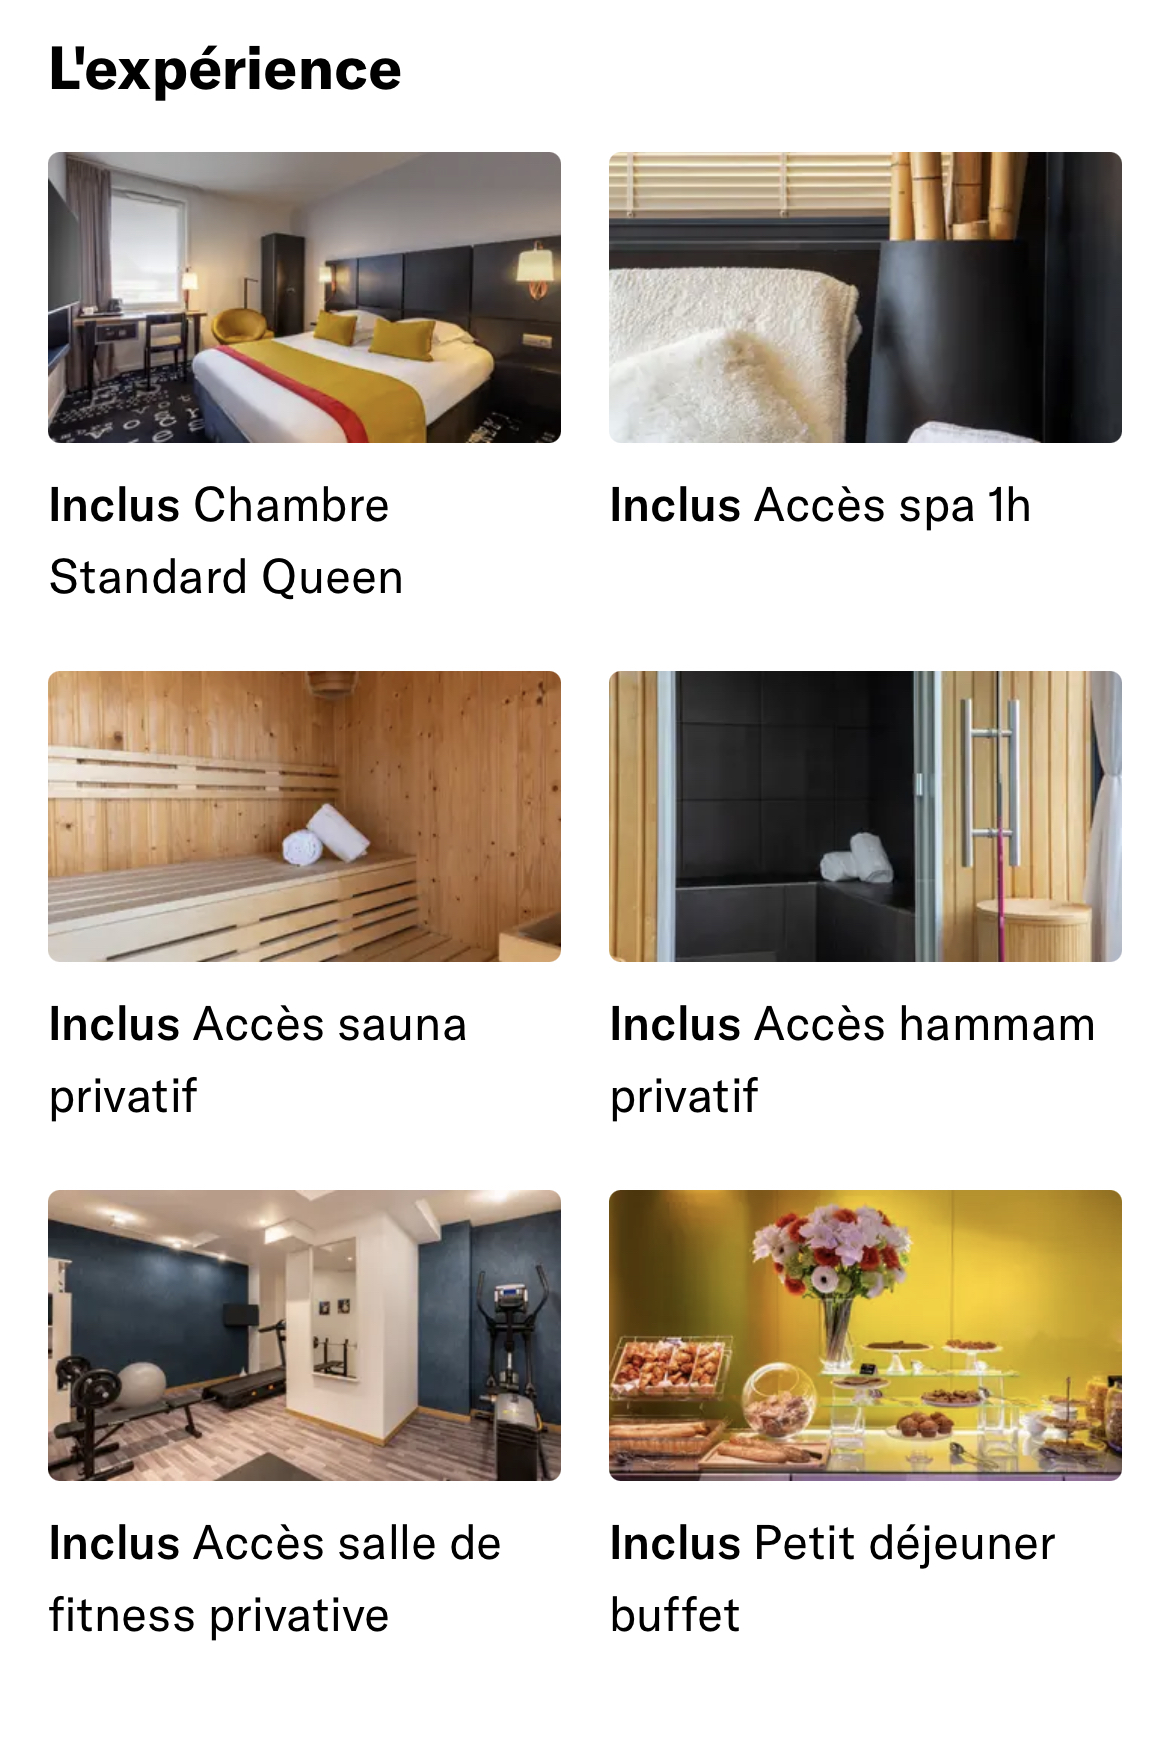
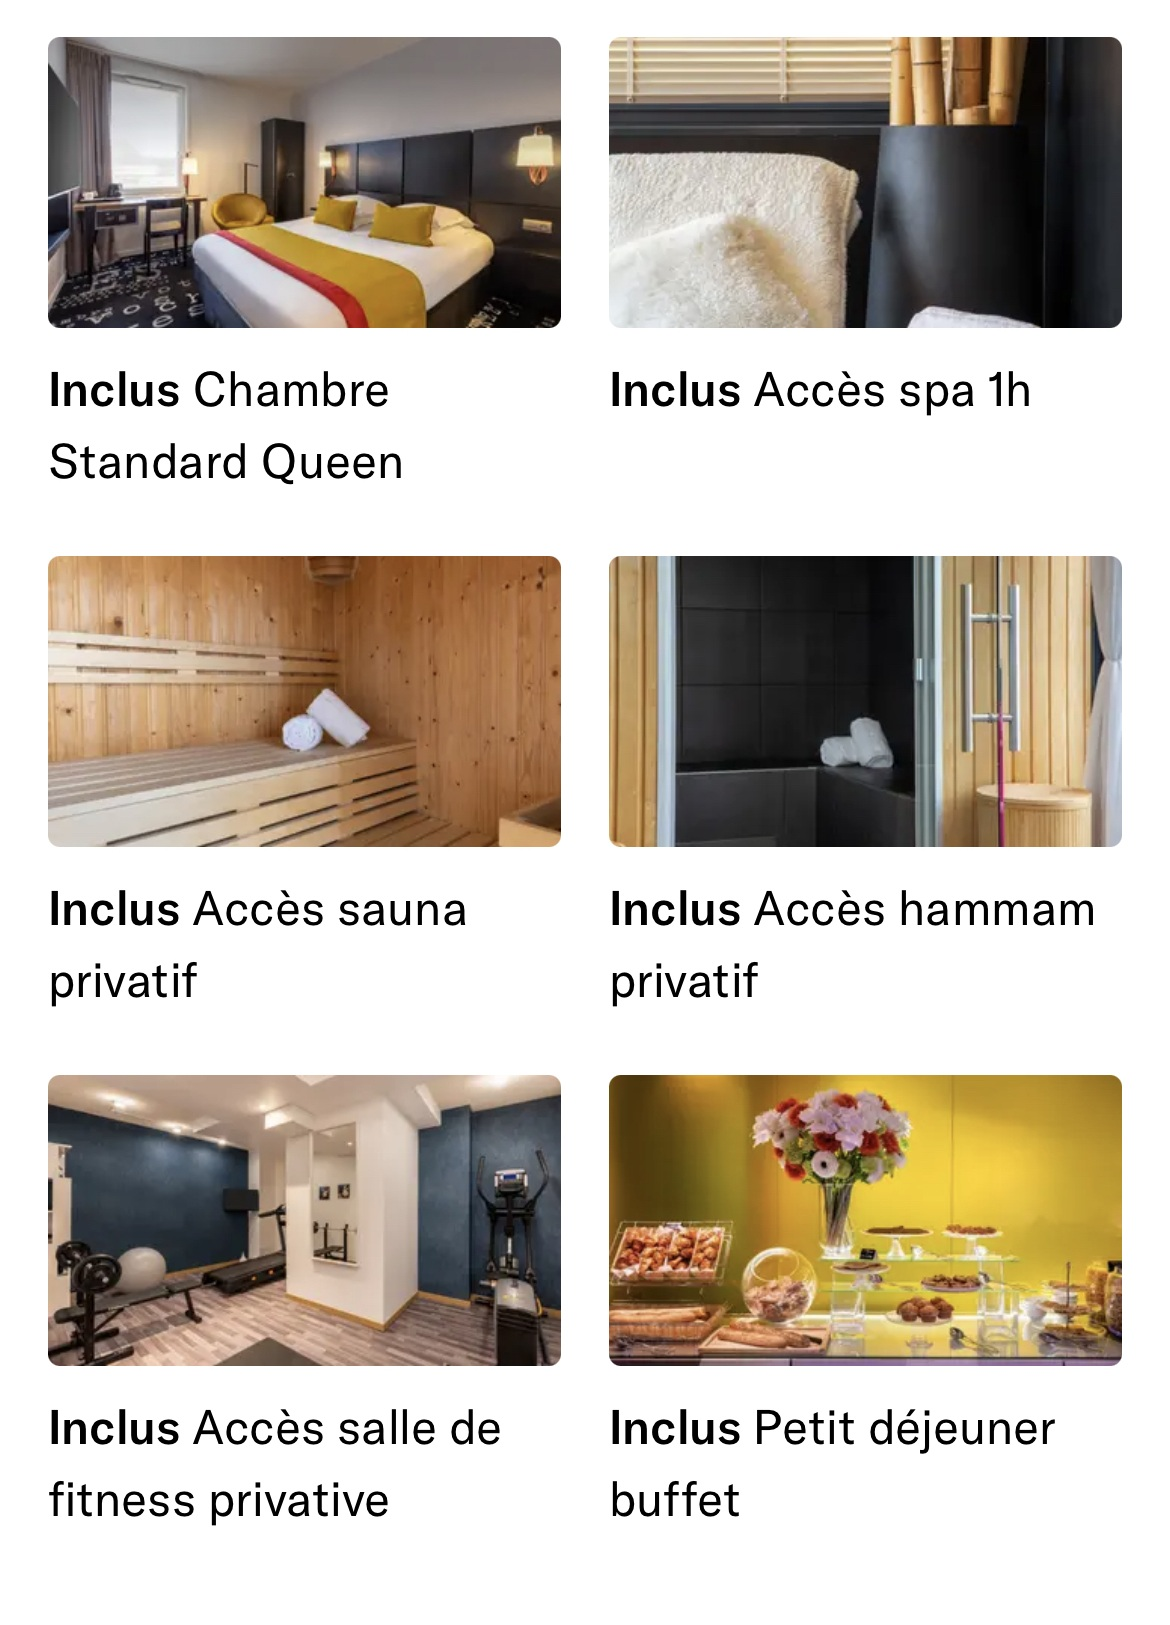
big update

diff --git a/style.css b/style.css
@@ -4,13 +4,22 @@
   padding: 0;
 }
 
+html, body {
+  margin: 0;
+  padding: 0;
+  width: 100%;
+  height: 100%;
+  overflow-x: hidden;
+}
+
 body {
   min-height: 100vh;
   font-family: "Arial", sans-serif;
   background: linear-gradient(135deg, #ffdde1, #ee9ca7);
   display: flex;
   justify-content: center;
-  align-items: center;
+  align-items: flex-start;
+  padding: 20px 0;
 }
 
 .container {
@@ -21,10 +30,12 @@ body {
   text-align: center;
   border-radius: 20px;
   box-shadow: 0 20px 40px rgba(0,0,0,0.15);
+  align-self: center;
 }
 
 h1 {
-  margin-bottom: 20px;
+  margin-bottom: 10px;
+  font-size: clamp(1.5rem, 4vw, 2.5rem);
 }
 
 p {
@@ -49,18 +60,85 @@ a:hover {
   box-shadow: 0 8px 20px rgba(0,0,0,0.2);
 }
 
-.countdown-container {
-  height: 100vh;
-  display: flex;
-  justify-content: center;
-  align-items: center;
-  background: linear-gradient(135deg, #ee9ca7, #ffdde1);
+.pictures-container {
+  width: 100%;
+  max-width: 800px;
+  margin: 0 auto;
+  padding: 30px 20px;
+  background: white;
+  border-radius: 20px;
+  box-shadow: 0 20px 40px rgba(0,0,0,0.15);
 }
 
-#count {
-  font-size: 8rem;
-  font-weight: bold;
-  color: white;
-  animation: pop 1s ease-in-out infinite;
+.pictures-container h1 {
+  text-align: center;
+  color: #ee9ca7;
+  margin-bottom: 30px;
+  font-size: clamp(1.8rem, 5vw, 2.5rem);
 }
 
+.pictures-container h2 {
+  text-align: center;
+  color: #ee9ca7;
+  margin: 40px 0 20px 0;
+  font-size: clamp(1.3rem, 4vw, 1.8rem);
+  font-weight: 600;
+}
+
+.pictures-container h2:first-of-type {
+  margin-top: 20px;
+}
+
+.pictures-container h3 {
+  text-align: left;
+  color: #ee9ca7;
+  margin: 30px 0 15px 0;
+  font-size: clamp(1.1rem, 3.5vw, 1.5rem);
+  font-weight: 600;
+  padding-left: 10px;
+  border-left: 4px solid #ee9ca7;
+}
+
+.pictures-container p {
+  text-align: left;
+  color: #555;
+  margin: 0 0 20px 0;
+  line-height: 1.6;
+  font-size: clamp(0.95rem, 2.5vw, 1.1rem);
+  padding: 0 10px;
+}
+
+.pictures-container img {
+  width: 100%;
+  max-width: 100%;
+  height: auto;
+  display: block;
+  margin: 25px auto;
+  border-radius: 15px;
+  box-shadow: 0 4px 15px rgba(0,0,0,0.15);
+  transition: transform 0.3s ease, box-shadow 0.3s ease;
+}
+
+.pictures-container img:hover {
+  transform: translateY(-5px);
+  box-shadow: 0 8px 25px rgba(0,0,0,0.25);
+}
+
+img {
+  width: clamp(100px, 90vw, 500px);
+  max-width: 100%;
+  height: auto;
+}
+
+@media (min-width: 768px) {
+  .pictures-container {
+    padding: 40px;
+    border-radius: 20px;
+    margin: 20px auto;
+    min-height: auto;
+  }
+  
+  img {
+    max-width: 600px;
+  }
+}

diff --git a/pictures.html b/pictures.html
@@ -3,10 +3,36 @@
 <head>
   <meta charset="UTF-8">
   <meta name="viewport" content="width=device-width, initial-scale=1.0">
+  <link rel="stylesheet" href="style.css">
   <title>❤ Nos 4 ans ❤</title>
 </head>
 <body>
-  <h1>The Best Western Plus</h1>
-  <img src="images/experience.jpg">
+  <div class="pictures-container">
+    <h1>The Best Western Plus</h1>
+
+    <h2>Inclus dans l'hôtel</h2>
+    <img src="images/experience.jpg">
+
+    <h2>Détails</h2>
+    <h3>Entrée</h3>
+    <img src="images/entrée.jpg">
+
+    <h3>Intérieur/Extérieur</h3>
+    <img src="images/intérieur1.jpg">
+    <img src="images/intérieur2.jpg">
+    <img src="images/extérieur.jpg">
+
+    <h3>Chambre</h3>
+    <p>Je ne sais pas exactement quelle chambre on aura mais voila ce qu'on peut avoir.</p>
+    <img src="images/chambre1.jpg">
+    <img src="images/chambre2.jpg">
+
+    <h3>Spa privatisé</h3>
+    <p>Rien qu'à nous deux 😊</p>
+    <img src="images/spa2.jpg">
+    <img src="images/spa1.jpg">
+    
+  </div>
+  
 </body>
 </html>

diff --git a/index.html b/index.html
@@ -12,7 +12,7 @@
     <p>Coucou mon amour. Voici un petit site que j'ai crée pour toi 😊</p>
     <p>Tu pourras en décourvir un peu plus sur ce qui nous attend à l'hôtel, avec des petites photos</p>
     <p>Prête ?</p>
-    <a href="countdown.html">Découvrir</a>
+    <a href="pictures.html">Découvrir</a>
   </div>
   
 </body>
